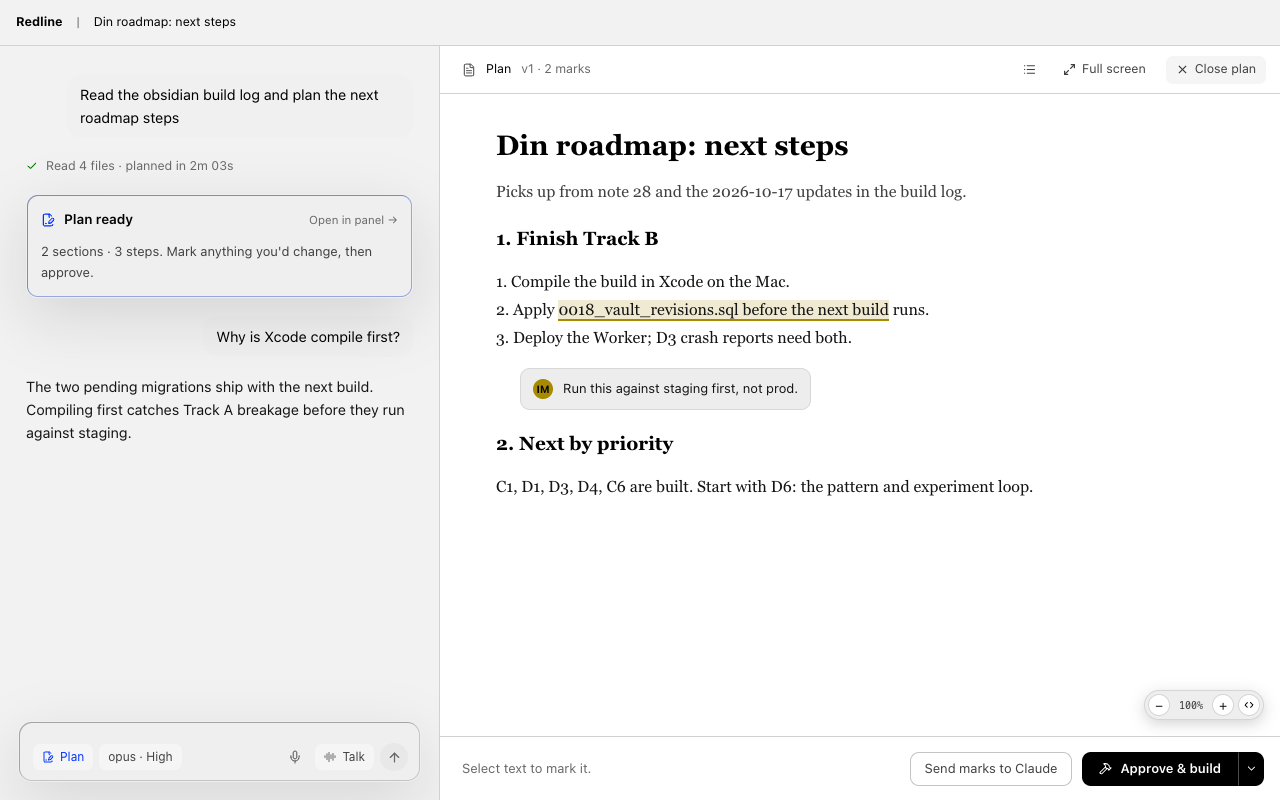
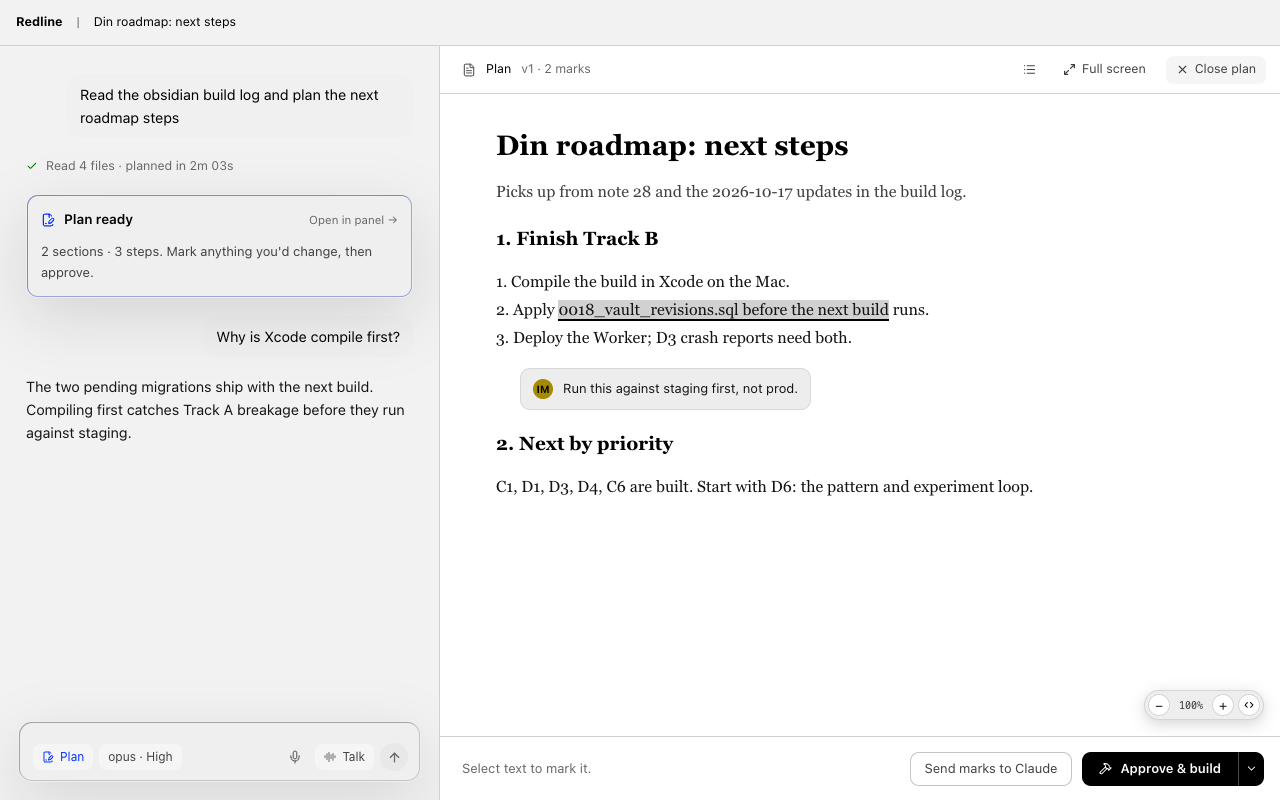
Open the stage as the boards draw it in the whole app
Run against the full-App harness, the stage now opens without App's
floating Contents button or Discuss pill showing through (their inline
display beat the stage's rule), with flow's own contents-rail preference
closed by default, its chunks warmed after boot, a clicked mark staying
amber beside the chat (blue only where its thread is open, in the full
pose), and marks in the redlining tokens. The plan panel's header, footer,
version pill and right panel carry the hooks the harness probes, and its
4c and 5a drives wait for the plan to open before reaching for it.

Changed region(s): [[0.4375, 0.375, 0.7188, 0.4062]]

diff --git a/src/App.tsx b/src/App.tsx
@@ -394,8 +394,10 @@ import { attentionKinds, deriveStageTarget, reduceLaunches, sidebarActivity, sid
 import { FLOW_ARTICLE, openPlan } from "./lib/flowPose";
 import { convoPrebind } from "./lib/convo/api";
 import { useStageDock } from "./lib/stageDock";
-const FlowStage = lazy(() => import("./shell/FlowStage"));
-const SessionConversation = lazy(() => import("./shell/SessionConversation"));
+const loadFlowStage = () => import("./shell/FlowStage");
+const loadSessionConversation = () => import("./shell/SessionConversation");
+const FlowStage = lazy(loadFlowStage);
+const SessionConversation = lazy(loadSessionConversation);
 import { FlashOverlay } from "./components/FlashOverlay";
 import { CommandPalette } from "./components/CommandPalette";
 import { playInterceptBeep, DEFAULT_SOUND } from "./audio/beep";
@@ -944,7 +946,9 @@ function App() {
   // Table-of-contents rail (Phase 2): a collapsible outline of the current
   // plan's headings, docked to the left of the document column. Persisted so a
   // reader's preference sticks across sessions.
-  const [tocOpen, setTocOpen] = usePersistedState("redline.tocOpen", true);
+  // Flow keeps its own, closed until asked for: the plan panel opens as the
+  // boards draw it, and "☰ Contents" in its header is one click away.
+  const [tocOpen, setTocOpen] = usePersistedState(isFlowShell() ? "redline.flow.tocOpen" : "redline.tocOpen", !isFlowShell());
   // Rail width: two snap points (230 / 340). `tocWide` is the persisted snap;
   // the transient width during a drag is written straight onto the rail and the
   // scroller, and release snaps to whichever point is nearer (see snapTocWide).
@@ -2453,6 +2457,21 @@ function App() {
   // engine (`convo-bound`), held plans and arrivals. On the classic shell the
   // hook stays inert, the list empty and the target is never read.
   const flowShell = isFlowShell();
+  // The stage's two chunks are what a session opens onto: warmed once the
+  // shell is up, so the first plan or launch doesn't wait on a fetch.
+  useEffect(() => {
+    if (!flowShell) return;
+    const warm = () => {
+      void loadFlowStage().catch(() => {});
+      void loadSessionConversation().catch(() => {});
+    };
+    const idle = window.requestIdleCallback?.(warm, { timeout: 2000 });
+    if (idle === undefined) {
+      const t = setTimeout(warm, 500);
+      return () => clearTimeout(t);
+    }
+    return () => window.cancelIdleCallback?.(idle);
+  }, [flowShell]);
   const [flowLaunches, setFlowLaunches] = useState<readonly FlowLaunch[]>([]);
   const flowLaunchesRef = useRef(flowLaunches);
   flowLaunchesRef.current = flowLaunches;

diff --git a/src/shell/stage.css b/src/shell/stage.css
@@ -487,19 +487,21 @@
   color: var(--color-ink);
 }
 
-/* A mark is amber: a tinted run with a 2px rule under it (4c). The one the
-   reader is following turns plan-blue (5a). */
+/* A mark is redlining amber: a tinted run with a 2px rule under it (4c).
+   The one the reader is following turns plan-blue (5a). */
 .rl-flow-plan .rl-comment-highlight {
-  background: color-mix(in srgb, var(--color-warning) 18%, transparent);
+  background: color-mix(in srgb, var(--color-mode-redline-fg) 18%, transparent);
   box-shadow: none;
-  border-bottom: 2px solid var(--color-warning);
+  border-bottom: 2px solid var(--color-mode-redline-fg);
   border-radius: 0;
   transition: none;
 }
-.rl-flow-plan .rl-comment-highlight--focused,
-.rl-flow-plan .rl-comment-highlight--muted.rl-comment-highlight--focused {
-  background: color-mix(in srgb, var(--color-info) 16%, transparent);
-  border-bottom-color: var(--color-info);
+/* Blue only where the followed mark's thread is open beside it: the full
+   pose's Feedback tab. In the split pose a clicked mark stays amber. */
+.rl-flow-plan[data-pose="full"] .rl-comment-highlight--focused,
+.rl-flow-plan[data-pose="full"] .rl-comment-highlight--muted.rl-comment-highlight--focused {
+  background: color-mix(in srgb, var(--color-mode-plan-fg) 16%, transparent);
+  border-bottom-color: var(--color-mode-plan-fg);
   box-shadow: none;
 }
 .rl-flow-plan .rl-comment-highlight--muted {

diff --git a/fixtures/flow-stage-qa/main.tsx b/fixtures/flow-stage-qa/main.tsx
@@ -139,6 +139,10 @@ function Fixture() {
         )}
         <div className="qa-column">
           <div className="rl-surface-pane flex-1 min-h-0 min-w-0 overflow-hidden flex flex-col relative" data-main-surface="document" style={{ "--rl-doc-zoom": zoom } as CSSProperties}>
+            {/* App's floating "☰ Contents" and Discuss pill, as App renders
+                them (inline display), which the stage must keep out of sight. */}
+            {!contents && <button type="button" className="rl-toc-btn font-sans" style={{ position: "absolute", top: 10, left: 10, zIndex: 20, display: "flex" }}>☰ Contents</button>}
+            <button type="button" className="rl-discuss-pill absolute flex items-center" style={{ right: 16, top: 60, display: "flex" }}>Discuss</button>
             {contents && (
               <div className="rl-toc-rail" style={{ position: "absolute", top: 0, left: 0, bottom: 0, width: 230, zIndex: 20, background: "var(--color-bg-elevated)", borderRight: "1px solid var(--color-rule)" }} />
             )}

diff --git a/src/styles.css b/src/styles.css
@@ -5364,7 +5364,7 @@ html[data-rl-shell="flow"] .rl-term-dock--stage {
    and while the plan is closed it waits, mounted and hidden. */
 .rl-surface-pane:has(> .rl-flow-stage) > .rl-toc-btn,
 .rl-surface-pane:has(> .rl-flow-stage) > .rl-discuss-pill {
-  display: none;
+  display: none !important;
 }
 .rl-surface-pane:has(> .rl-flow-stage[data-pose="split"]) > .rl-toc-rail {
   left: 440px !important;
@@ -5384,7 +5384,7 @@ html[data-rl-shell="flow"] .rl-term-dock--stage {
 }
 .rl-surface-pane:has(> .rl-flow-stage[data-pose="closed"]) > .rl-toc-rail,
 .rl-surface-pane:has(> .rl-flow-stage[data-pose="closed"]) > .rl-doc-zoom {
-  display: none;
+  display: none !important;
 }
 /* The start screen as the stage: an empty plate the resting door lands in. */
 html[data-rl-shell="flow"] .rl-flow-start-plate {

diff --git a/src/shell/PlanPanelHeader.tsx b/src/shell/PlanPanelHeader.tsx
@@ -50,7 +50,7 @@ export function PlanPanelHeader({
   ].filter(Boolean).join(" · ");
   const fullLabel = full ? "Leave full screen: the plan goes back beside the conversation" : "Full screen: the conversation moves into the panel's Chat tab";
   return (
-    <header className="rl-plan-head" data-pose={pose}>
+    <header className="rl-plan-head" data-pose={pose} data-plan-panel-header>
       {full ? (
         <button
           type="button"

diff --git a/src/shell/FlowStage.tsx b/src/shell/FlowStage.tsx
@@ -172,7 +172,7 @@ export default function FlowStage(p: FlowStageProps) {
         </section>
       )}
       {full && (
-        <aside className="rl-flow-panel" aria-label="Chat and feedback">
+        <aside className="rl-flow-panel" aria-label="Chat and feedback" data-flow-right-panel>
           <FeedbackTabs
             tab={tab}
             onTab={setPanelTab}

diff --git a/src/shell/PlanPanelFooter.tsx b/src/shell/PlanPanelFooter.tsx
@@ -95,7 +95,7 @@ export interface PlanPanelFooterProps {
 
 export function PlanPanelFooter(p: PlanPanelFooterProps) {
   return (
-    <footer className="rl-plan-foot" data-pose={p.pose}>
+    <footer className="rl-plan-foot" data-pose={p.pose} data-plan-panel-footer>
       <span className="rl-plan-foot-status">
         <Status {...p} />
       </span>

diff --git a/src/shell/VersionPill.tsx b/src/shell/VersionPill.tsx
@@ -26,6 +26,7 @@ export function VersionPill({ viewing, latest, receivedAt, onGoToLatest }: Versi
   return (
     <span
       className="rl-version-pill"
+      data-version-pill
       role="group"
       aria-labelledby={labelId}
       title={when ? `v${viewing} · received ${when}` : undefined}
